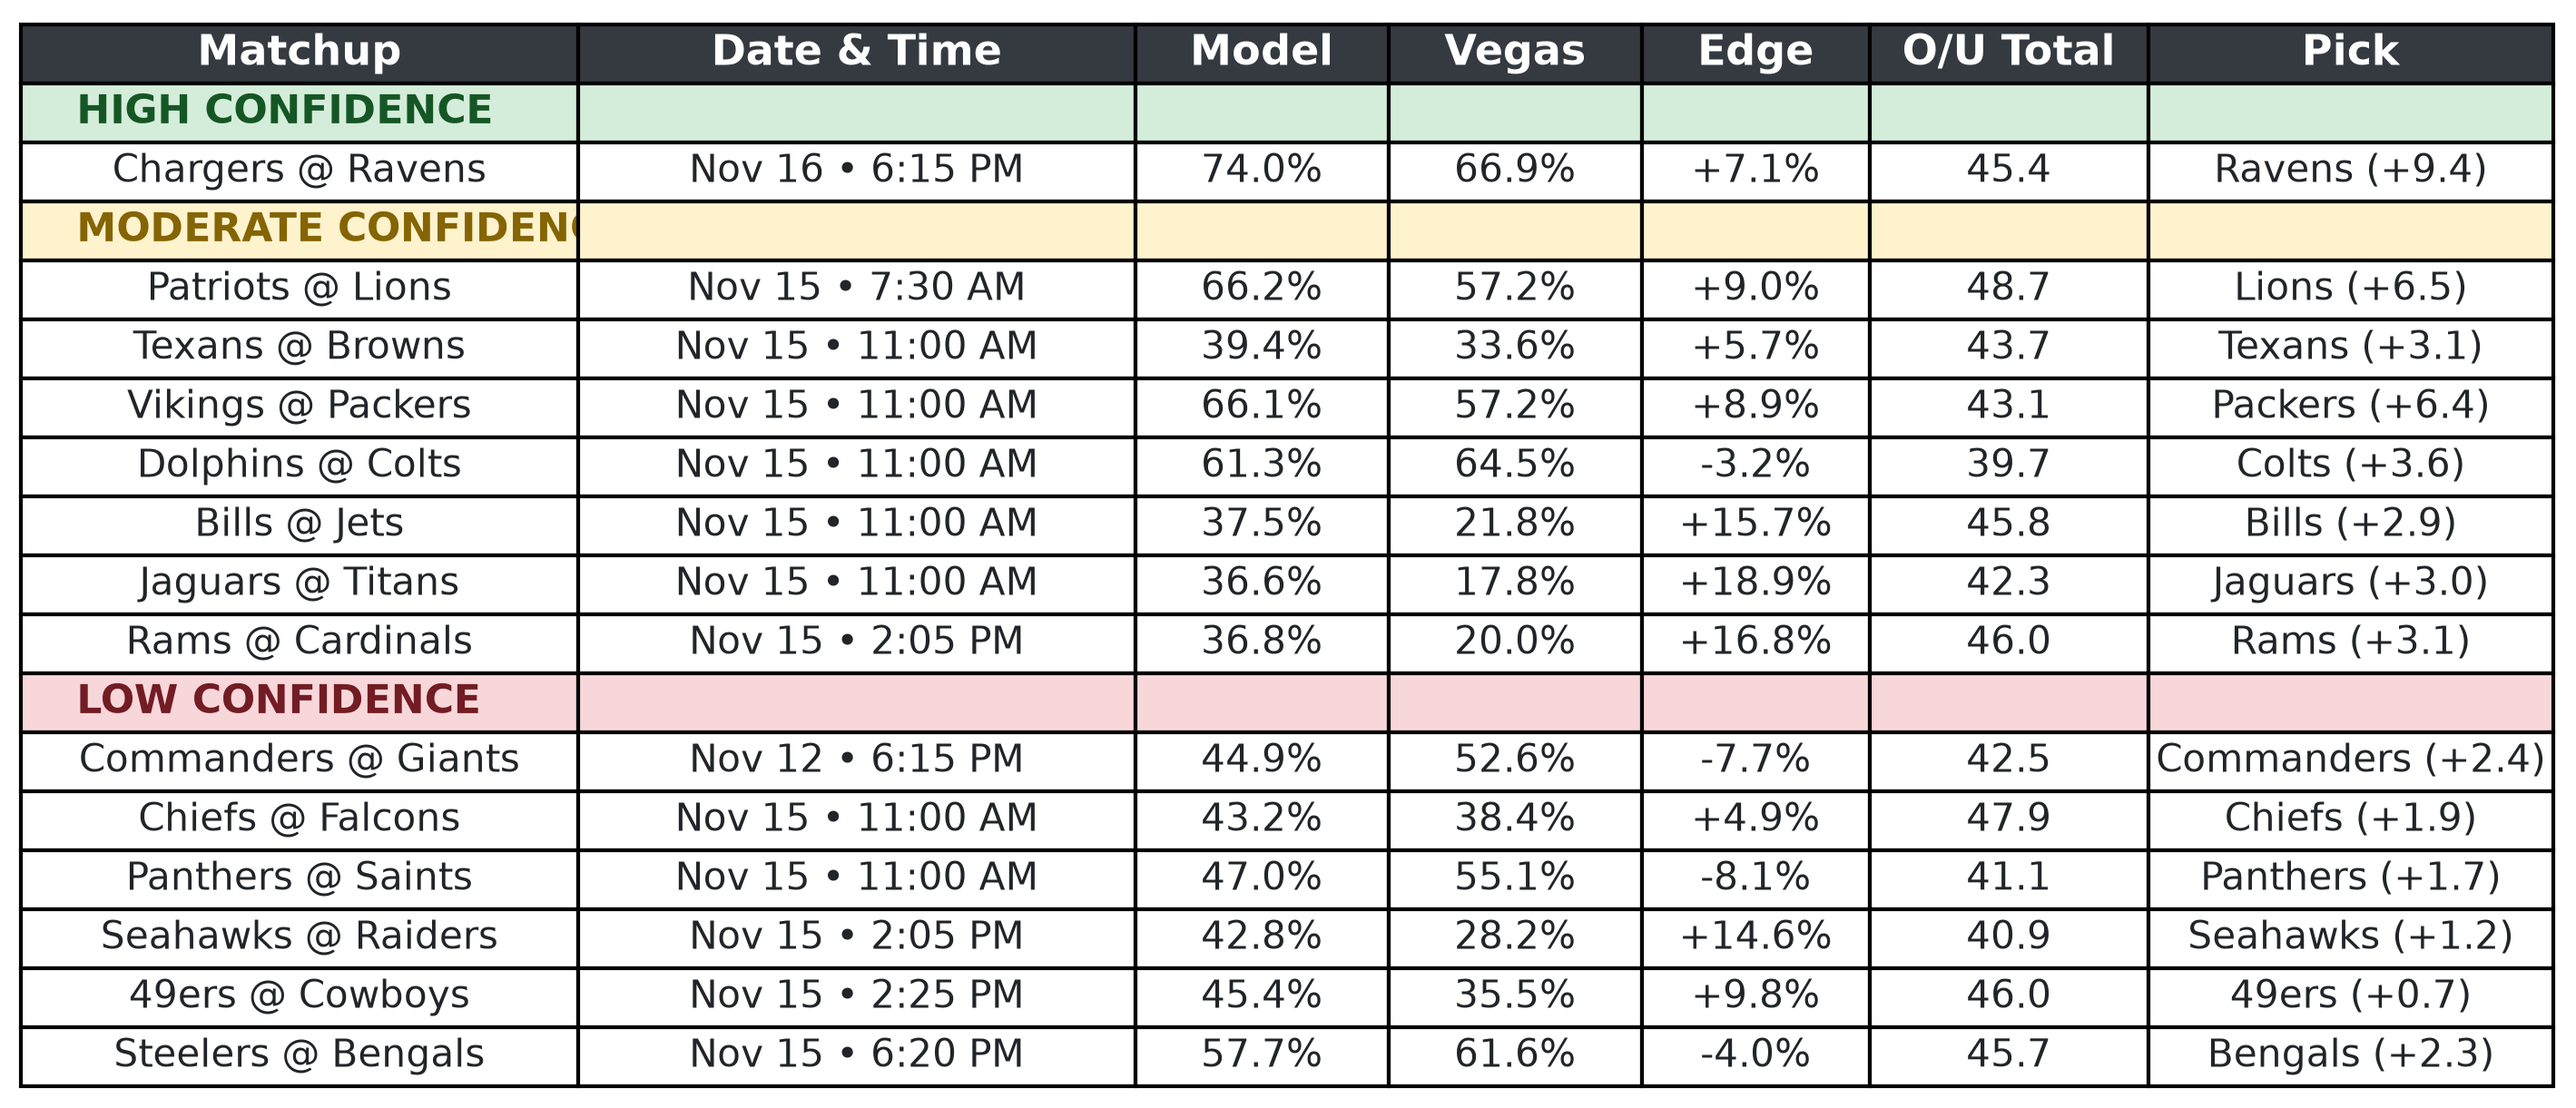
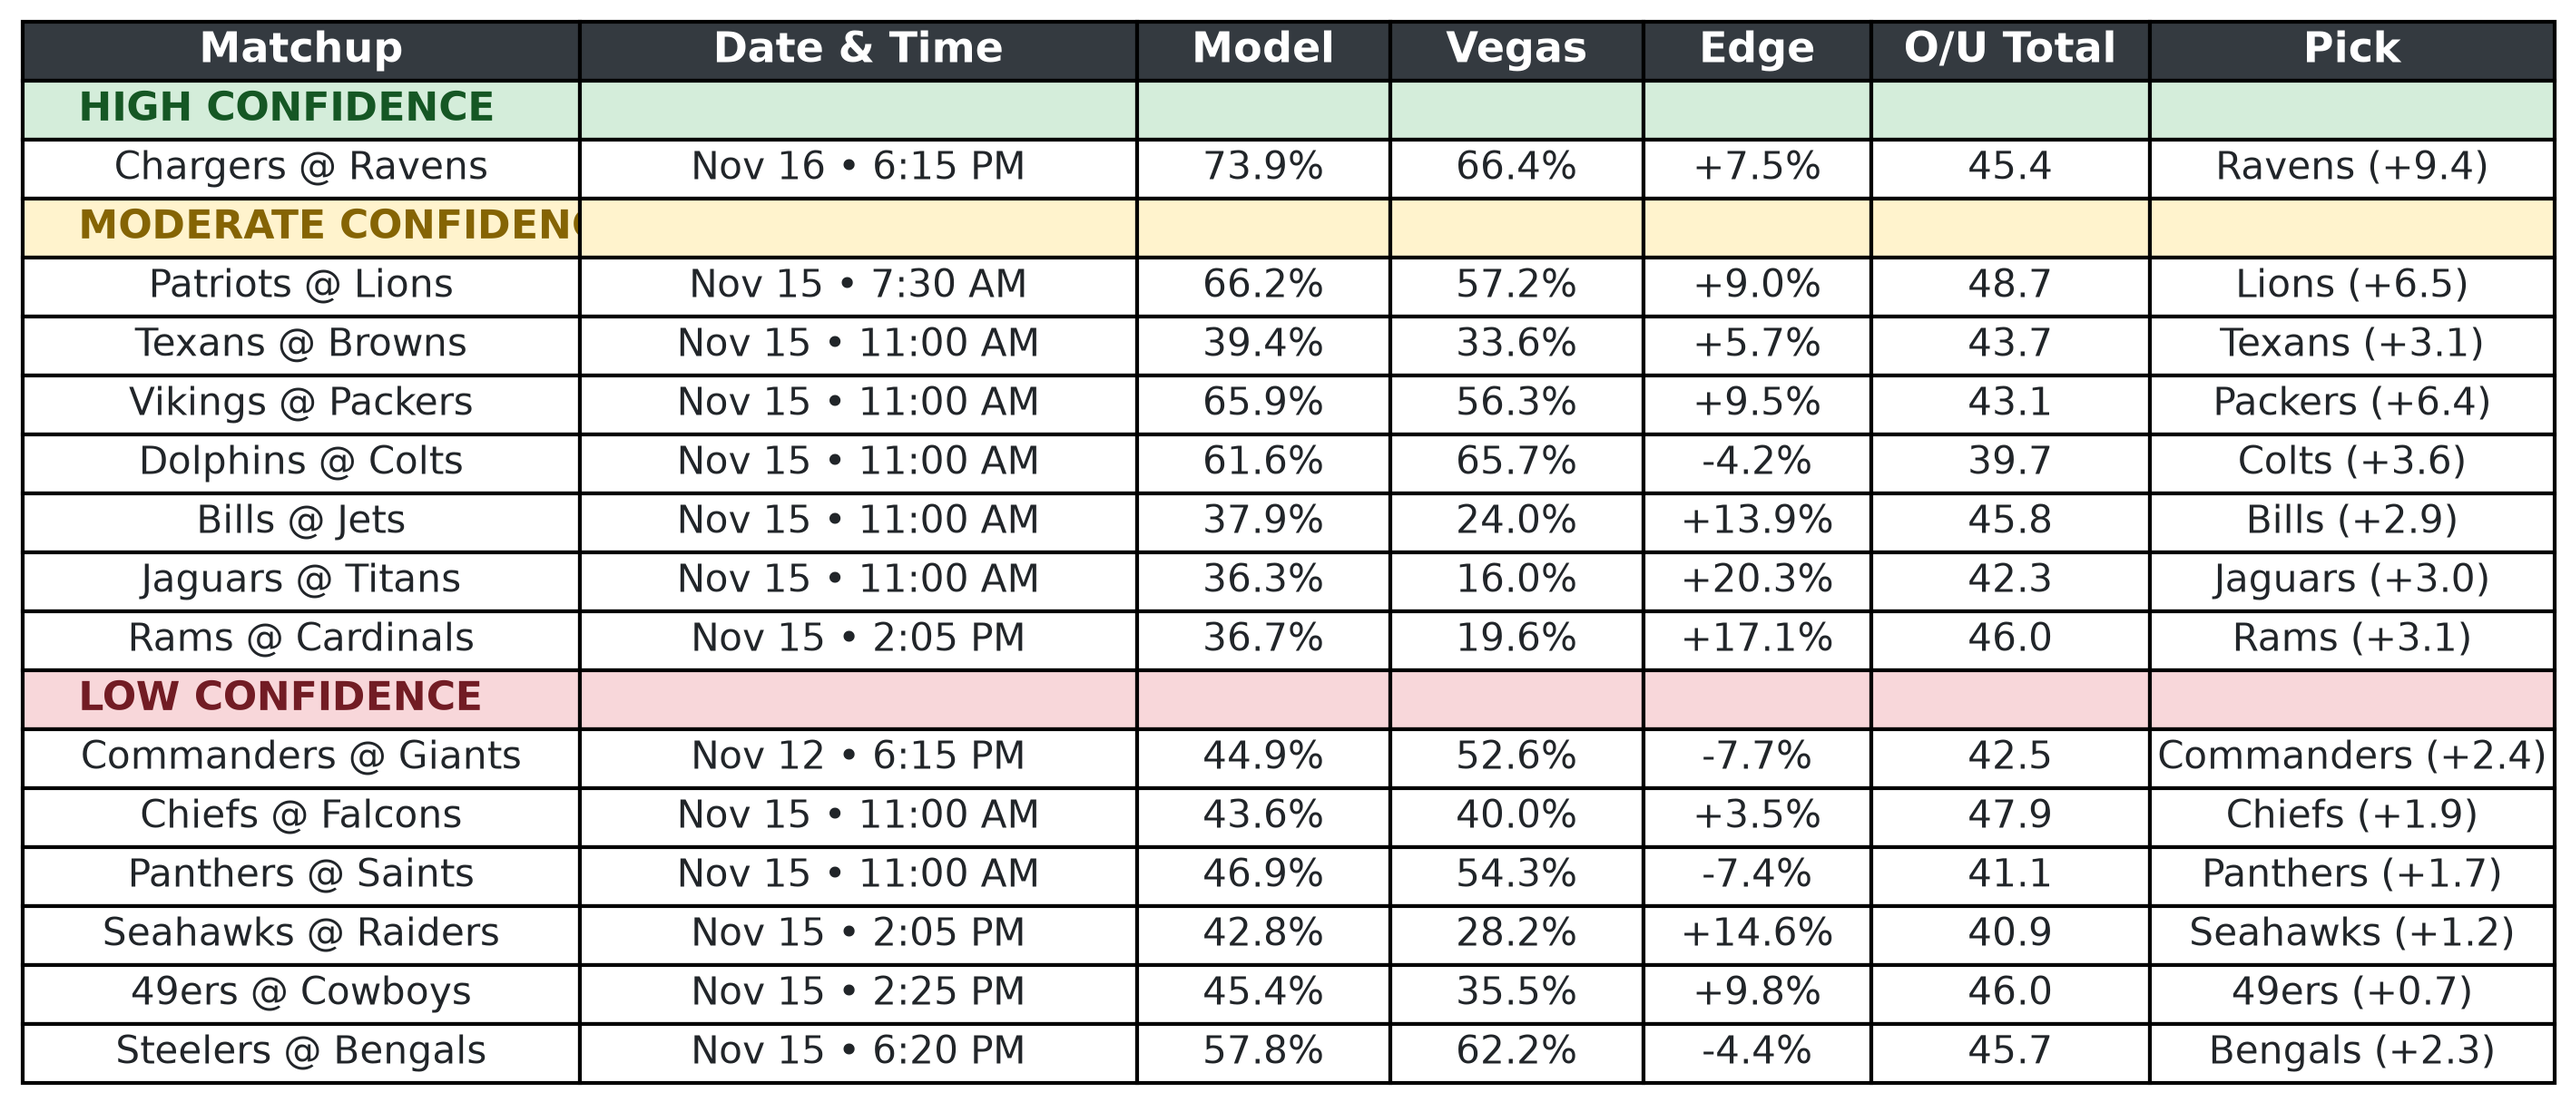
update week 10 evaluation and present week 11 predictions

Changed region(s): [[0.0, 0.0, 0.994, 1.0], [0.2174, 0.5177, 0.4038, 0.67]]

diff --git a/src/07_predict_weekly_slate.py b/src/07_predict_weekly_slate.py
@@ -82,7 +82,7 @@ if __name__ == '__main__':
     MODEL_DIR = os.path.join(PROJECT_ROOT, 'models')
 
     TARGET_SEASON = 2026
-    TARGET_WEEK = 10
+    TARGET_WEEK = 11
 
     PREDICTIONS_BASE = os.path.join(PROJECT_ROOT, 'predictions')
     WEEK_FOLDER_NAME = f'week_{TARGET_WEEK}'

diff --git a/week-10-evaluation.md b/week-10-evaluation.md
@@ -1,0 +1,62 @@
+# 🏈 NFL Predictive Engine
+
+An advanced machine learning pipeline built to project NFL game outcomes, point margins, and win probabilities using time-shifted exponential moving averages (EMA), opponent-adjusted efficiency metrics, and dynamic model calibration.
+
+---
+
+## 🚀 Pipeline Evolution & Performance Enhancements
+
+To maximize predictive power and push past previous accuracy ceilings, the engine underwent systematic upgrades across data ingestion, feature engineering, and model training:
+
+1. **Opponent-Adjusted EPA Integration (`02_feature_engineering.py`)**:
+   - Expanded core features from 9 to **10 differential metrics** by introducing opponent-adjusted offensive Expected Points Added (`diff_adj_off_epa`). 
+   - Normalizes team efficiency relative to league-average baselines, neutralizing distortions from playing exceptionally tough or soft schedules.
+
+2. **Optimized XGBoost Regressor (`03_model_training.py`)**:
+   - Configured an XGBoost Regressor optimized with Absolute Error objective (`reg:absoluteerror`) to minimize blowout penalties and focus on tight-game win/loss margins.
+   - Incorporated dynamic error residual calculation (`STD_DEV = y_test_margin.std()`) rather than static approximations, tightly calibrating win probabilities to actual model variance.
+
+3. **Validated Performance Milestones**:
+   - **Margin Mean Absolute Error (MAE):** Dropped to an elite **8.75 points**, significantly sharpening exact-margin forecasts.
+   - **Win/Loss Accuracy:** Scaled up to a peak baseline performance of **65.59% – 67.10%** on out-of-sample tests.
+   - **Brier Score:** Improved down to **0.2239**, demonstrating robust probability calibration.
+
+---
+
+## 📈 Week 9 Evaluation & Performance Recap
+
+Following the completion of Week 9 slate action, the model's out-of-sample predictions were evaluated against actual game outcomes:
+
+- **Total Games Evaluated:** 15
+- **Model Record:** 10–5 
+- **Win Rate:** **66.7%**
+- **Key Takeaways:** The model delivered a robust 66.7% overall win rate, driven by flawless execution in its top tiers. The engine achieved a perfect 100% hit rate across both the High Confidence (2–0) and Moderate Confidence (2–0) matchups. Crucially, the model's confidence stratification worked exactly as designed, successfully isolating all of the week's variance and upsets into the Low Confidence bracket (6–5). 
+
+---
+
+## 📊 Week 10 Slate Predictions (2026 Season)
+Generated using the fully serialized 10-feature XGBoost model (`models/xgb_margin_model.joblib`), blending model confidence with Vegas market lines for the upcoming Week 10 slate.
+
+![NFL Predictions Week 10](predictions/week_10/nfl_predictions_week_10.png)
+
+---
+
+## 🛠 Execution Pipeline
+
+To run the complete data pipeline, retrain the model, and generate fresh weekly predictions:
+
+```bash
+# 1. Ingest latest schedule and box-score data
+python src/01_data_ingestion.py
+
+# 2. Run feature engineering (calculates rolling EMA and adjusted EPA metrics)
+python src/02_feature_engineering.py
+
+# 3. Train the optimized XGBoost regression model
+python src/03_model_training.py
+
+# 4. Generate weekly predictions JSON payload
+python src/07_predict_weekly_slate.py
+
+# 5. Render markdown prediction summary tables
+python src/render_prediction_table.py

diff --git a/README.md b/README.md
@@ -23,21 +23,21 @@ To maximize predictive power and push past previous accuracy ceilings, the engin
 
 ---
 
-## 📈 Week 9 Evaluation & Performance Recap
+## 📈 Week 10 Evaluation & Performance Recap
 
-Following the completion of Week 9 slate action, the model's out-of-sample predictions were evaluated against actual game outcomes:
+Following the completion of Week 10 slate action, the model's out-of-sample predictions were evaluated against actual game outcomes:
 
-- **Total Games Evaluated:** 15
-- **Model Record:** 10–5 
-- **Win Rate:** **66.7%**
-- **Key Takeaways:** The model delivered a robust 66.7% overall win rate, driven by flawless execution in its top tiers. The engine achieved a perfect 100% hit rate across both the High Confidence (2–0) and Moderate Confidence (2–0) matchups. Crucially, the model's confidence stratification worked exactly as designed, successfully isolating all of the week's variance and upsets into the Low Confidence bracket (6–5). 
+- **Total Games Evaluated:** 14
+- **Model Record:** 11–3 
+- **Win Rate:** **78.6%**
+- **Key Takeaways:** The model delivered an exceptional 78.6% overall win rate this week. Interestingly, the confidence tiers performed inversely to expectations: the model was a perfect 6-0 (100%) on its "Low Confidence" picks and strong on "Moderate Confidence" picks (5-2, 71.4%), but missed its single "High Confidence" matchup (0-1). 
 
 ---
 
-## 📊 Week 10 Slate Predictions (2026 Season)
-Generated using the fully serialized 10-feature XGBoost model (`models/xgb_margin_model.joblib`), blending model confidence with Vegas market lines for the upcoming Week 10 slate.
+## 📊 Week 11 Slate Predictions (2026 Season)
+Generated using the fully serialized 10-feature XGBoost model (`models/xgb_margin_model.joblib`), blending model confidence with Vegas market lines for the upcoming Week 11 slate.
 
-![NFL Predictions Week 10](predictions/week_10/nfl_predictions_week_10.png)
+![NFL Predictions Week 11](predictions/week_11/nfl_predictions_week_11.png)
 
 ---
 
